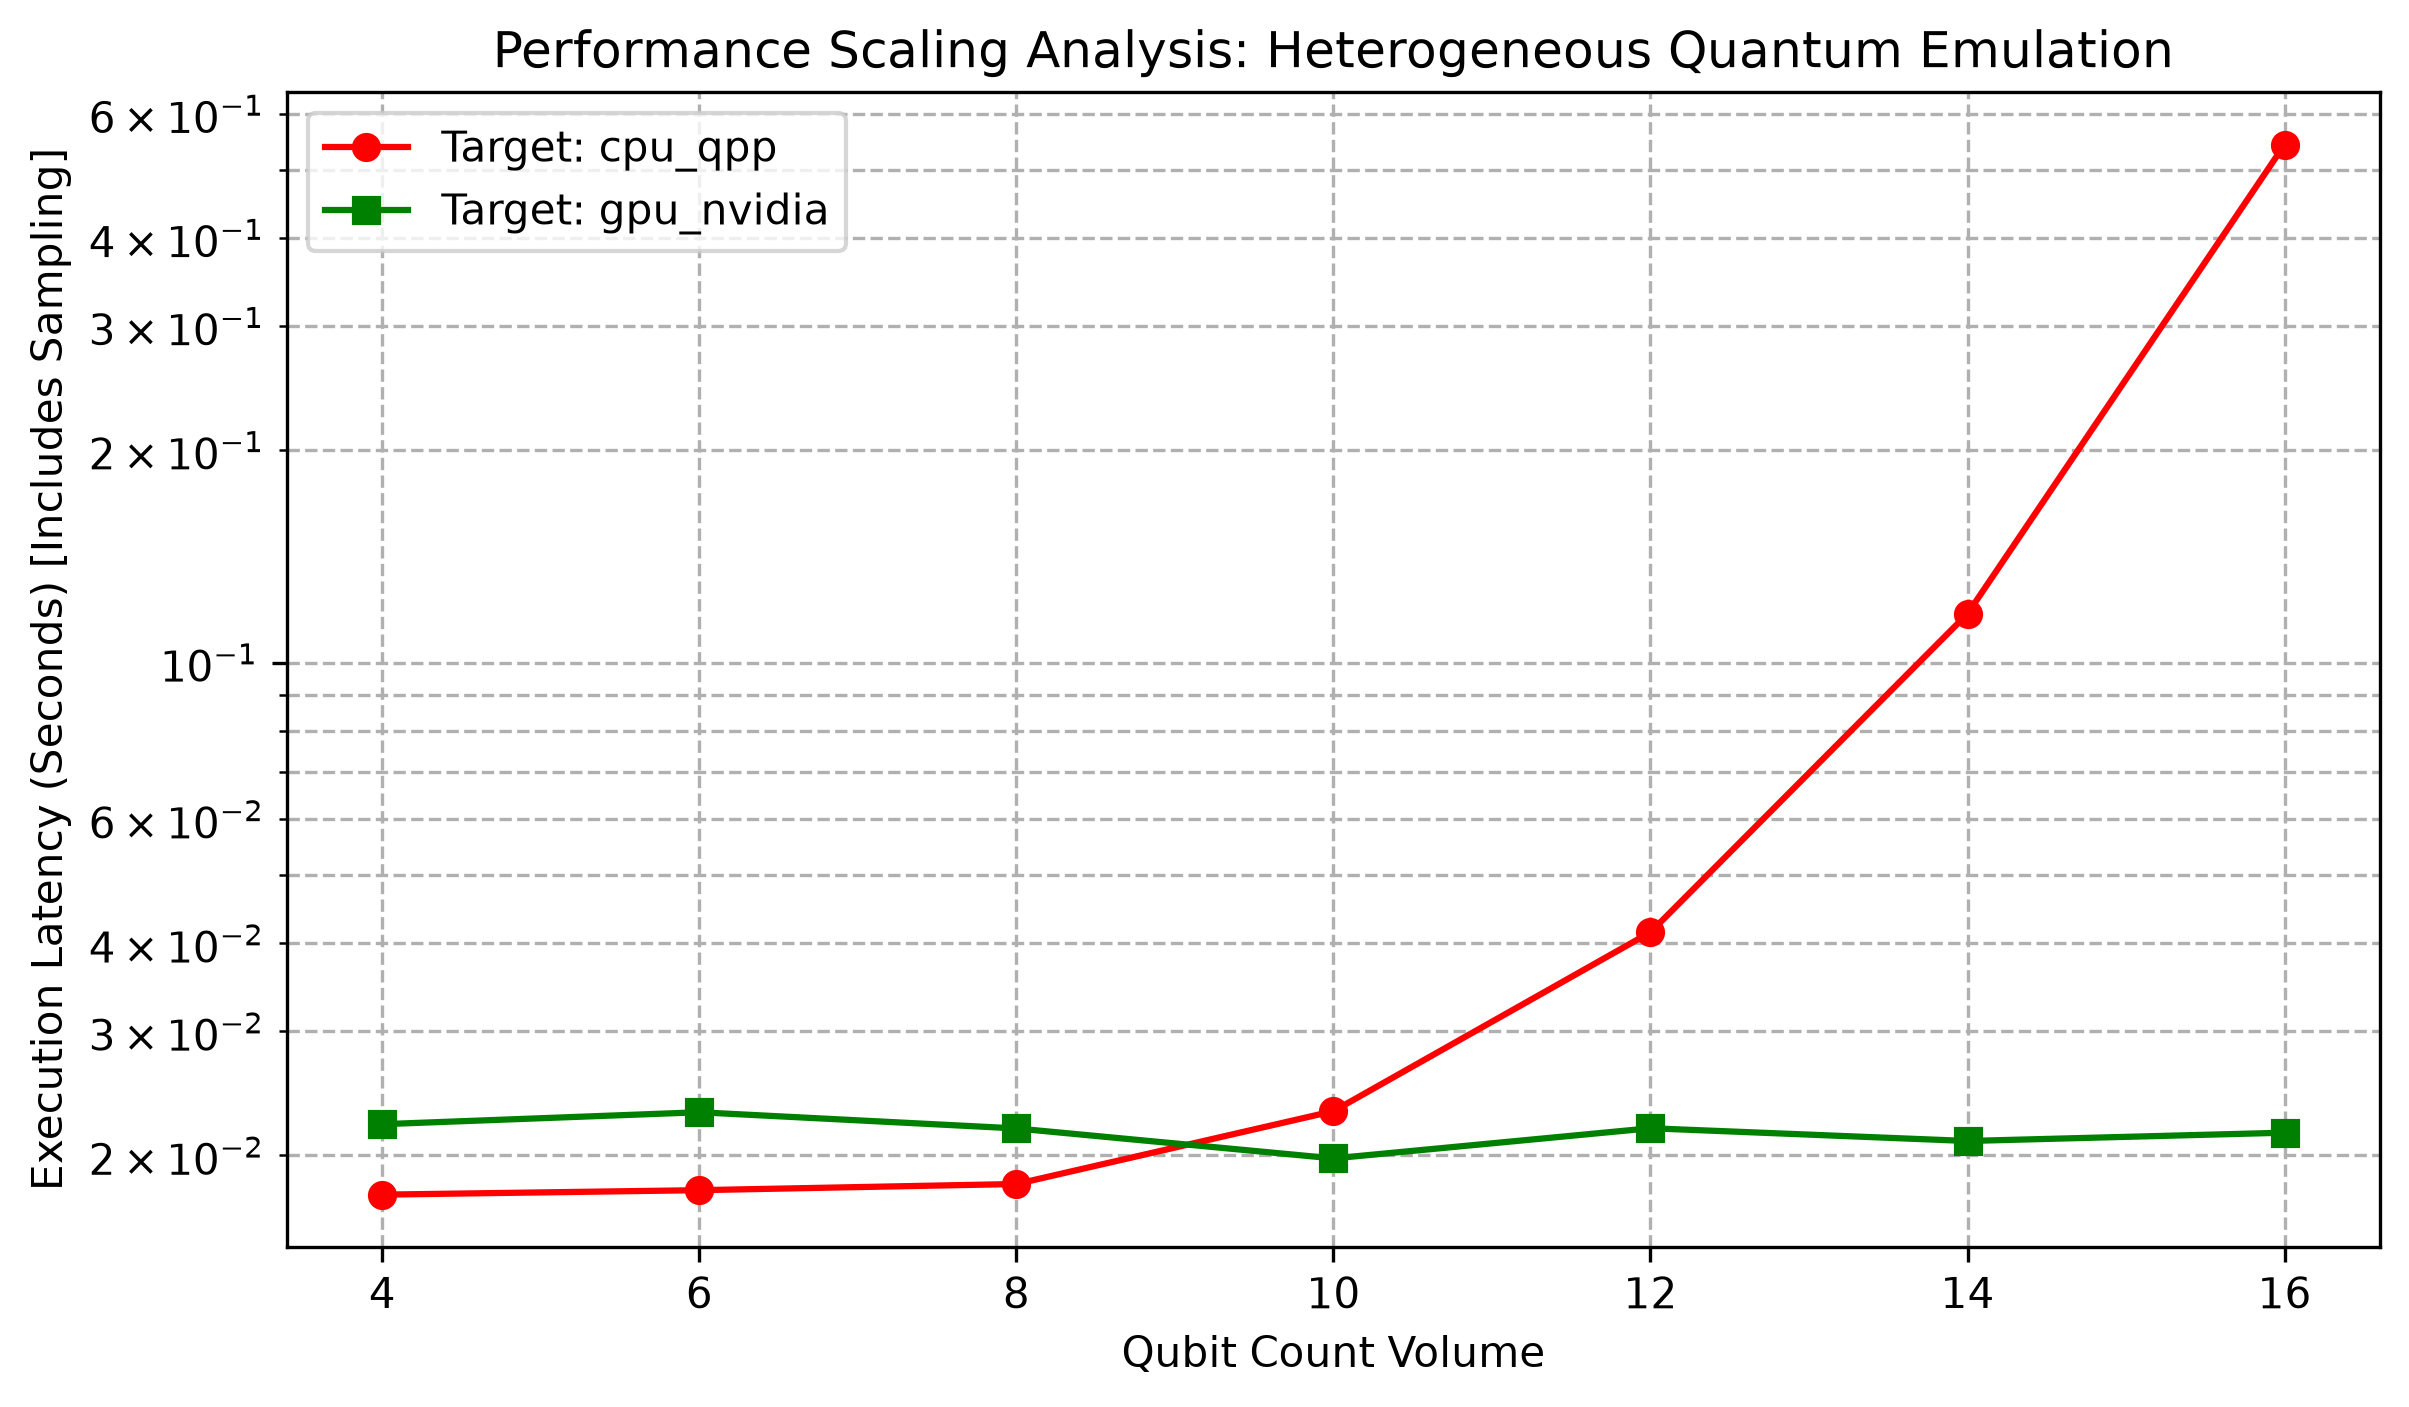
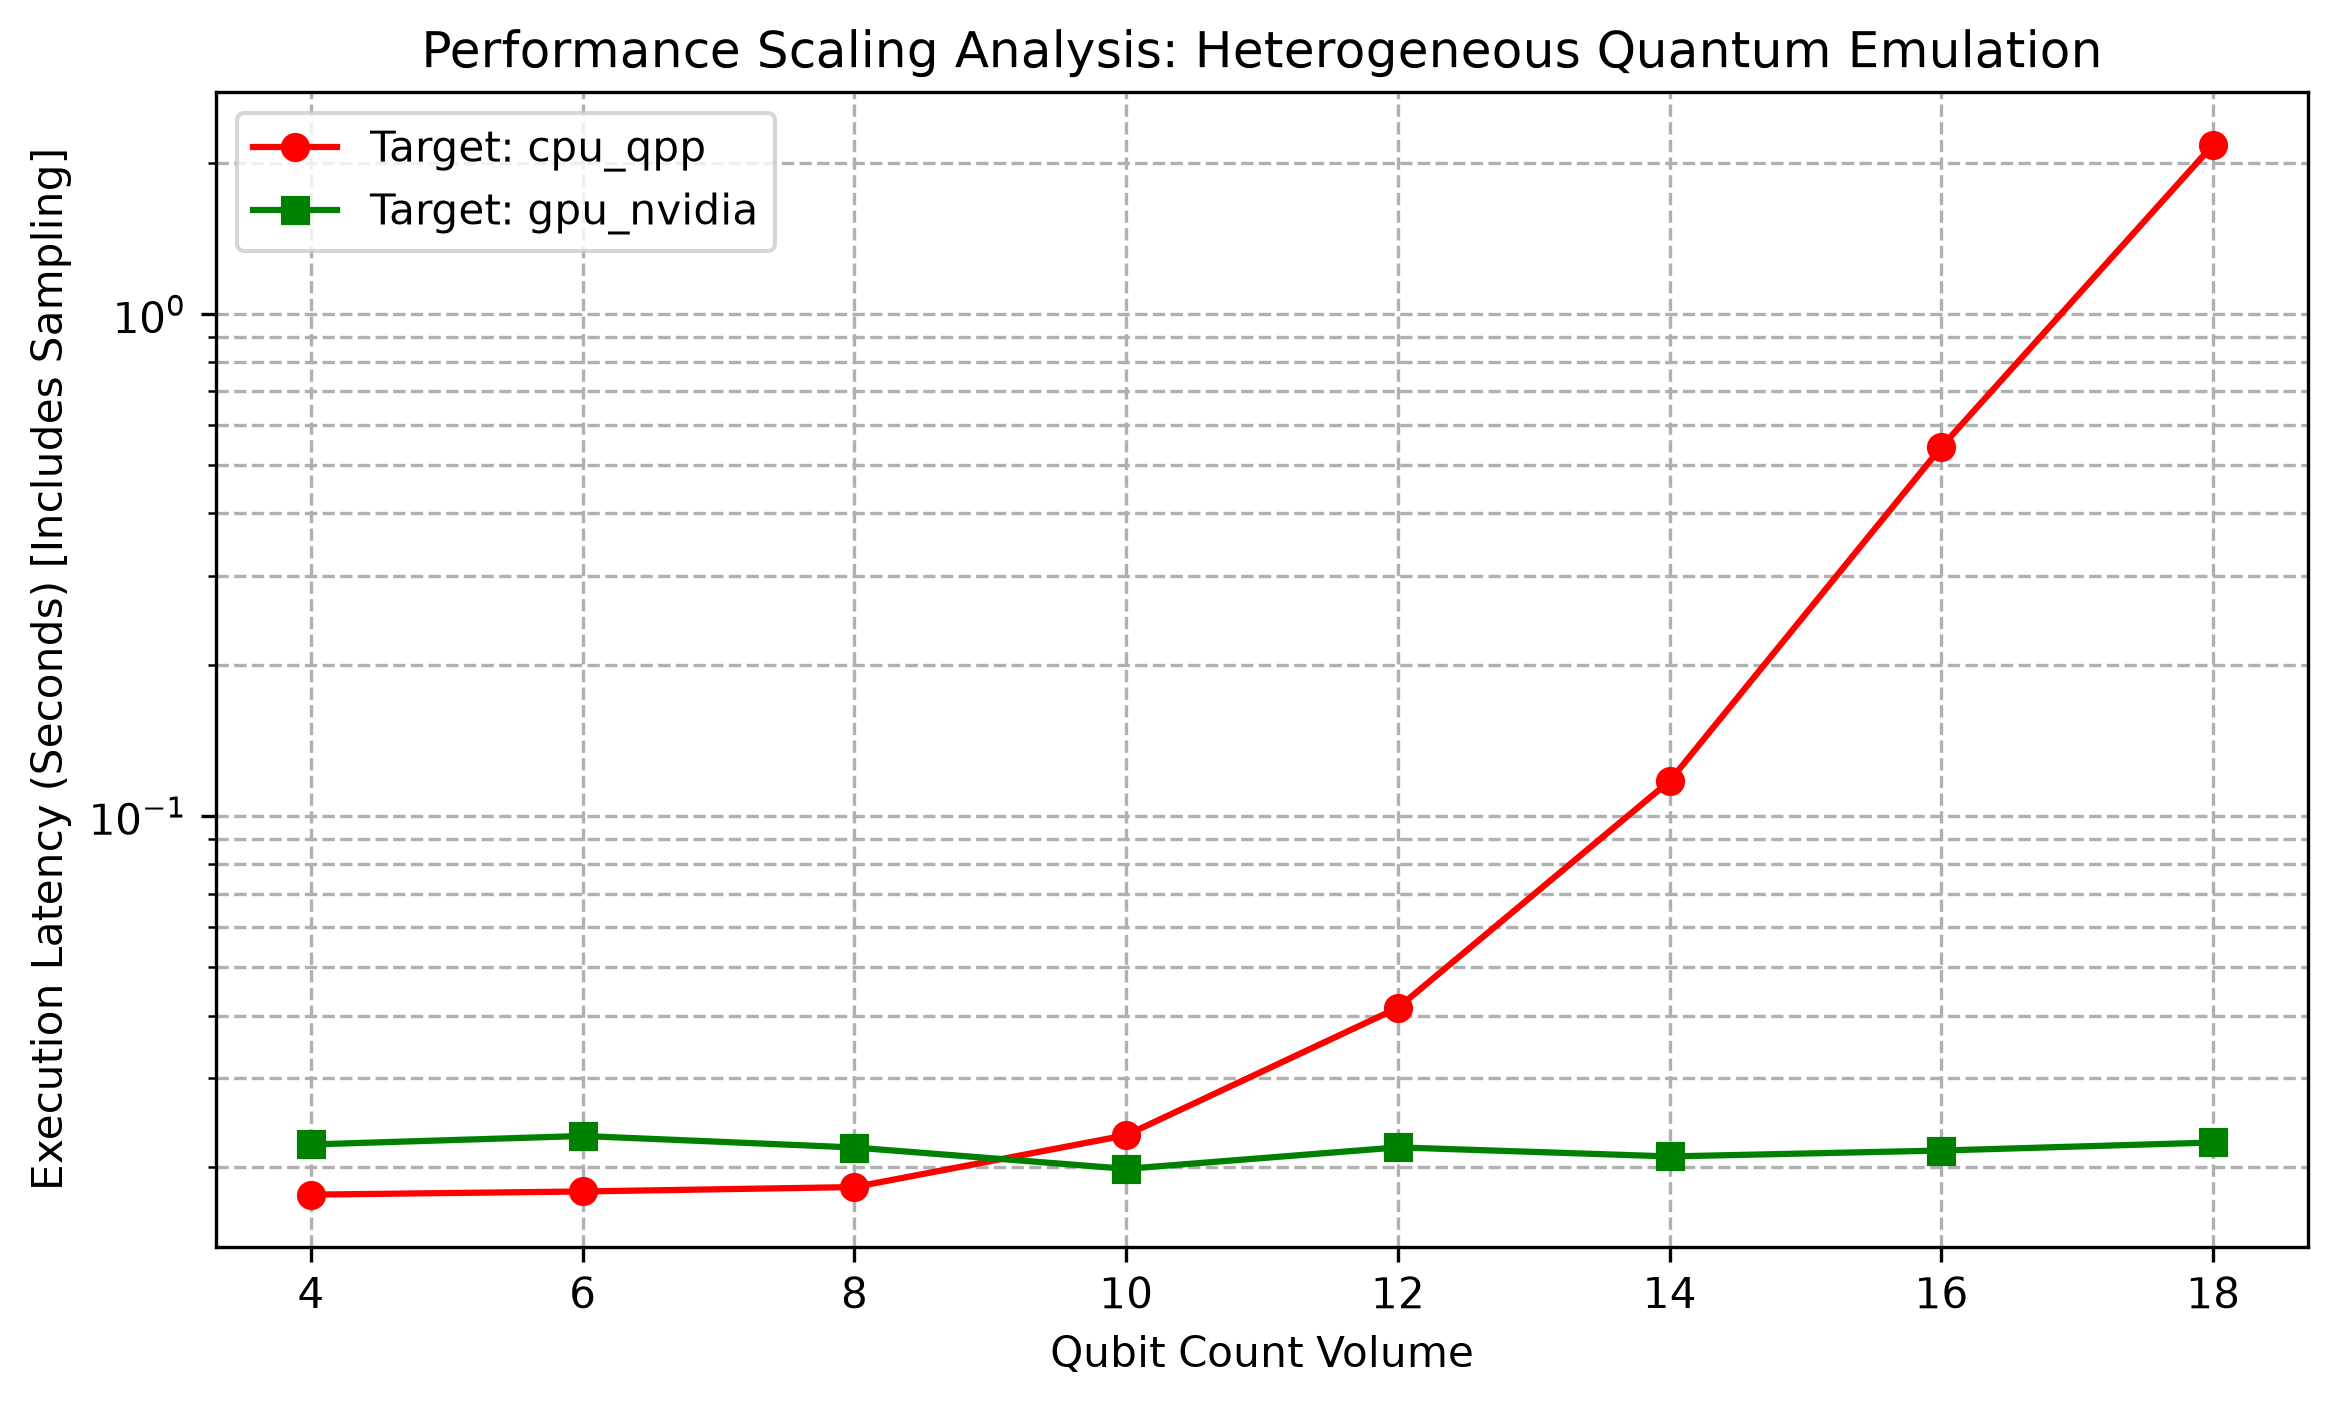
chore: scale simulation parameters to 18 qubits and regenerate graph

diff --git a/README.md b/README.md
@@ -30,7 +30,7 @@ cudaq-performance-benchmarking/
 ```
 
 ## Architectural Metrics & Analysis
-The benchmarking suite evaluates state-vector tracking from 4 to 16 qubits using 500 execution shots per scale sequence. To ensure scientific rigor, a JIT-compilation "warm-up" circuit is executed prior to the benchmarking loop to prevent driver initialization overhead from skewing latency metrics.
+The benchmarking suite evaluates state-vector tracking from 4 to 18 qubits using 500 execution shots per scale sequence. To ensure scientific rigor, a JIT-compilation "warm-up" circuit is executed prior to the benchmarking loop to prevent driver initialization overhead from skewing latency metrics.
 
 ### Measurement Overhead vs State Vector Evolution
 In a state-vector simulator, calling a sampling function (like `cudaq.sample`) performs two expensive tasks: 
@@ -46,7 +46,7 @@ By default, this suite benchmarks the full sampling pipeline. If your goal is st
 1. **The Initialization Tax:** At a low qubit volume (N=4), the classical CPU engine outperforms the GPU pipeline. This highlights the memory allocation, kernel JIT compilation, and PCIe bus transfer overhead native to heterogeneous computing.
 2. **The Efficiency Crossover:** Between 8 and 10 qubits, the computational density amortizes the initialization latency, making GPU acceleration highly efficient.
 3. **Exponential Classical Degradation:** Beyond 12 qubits, the CPU execution latency scales vertically due to the exponential growth of the underlying complex state vectors.
-4. **Massive Parallel Throughput:** The NVIDIA GPU pipeline maintains near-flat execution latency up to 16 qubits, leveraging dense thread arrays to compute matrix transformations simultaneously without hitting VRAM bottlenecks.
+4. **Massive Parallel Throughput:** The NVIDIA GPU pipeline maintains near-flat execution latency up to 18 qubits, leveraging dense thread arrays to compute matrix transformations simultaneously without hitting VRAM bottlenecks.
 
 ## Technical Toolchain
 * **Framework:** NVIDIA CUDA-Q